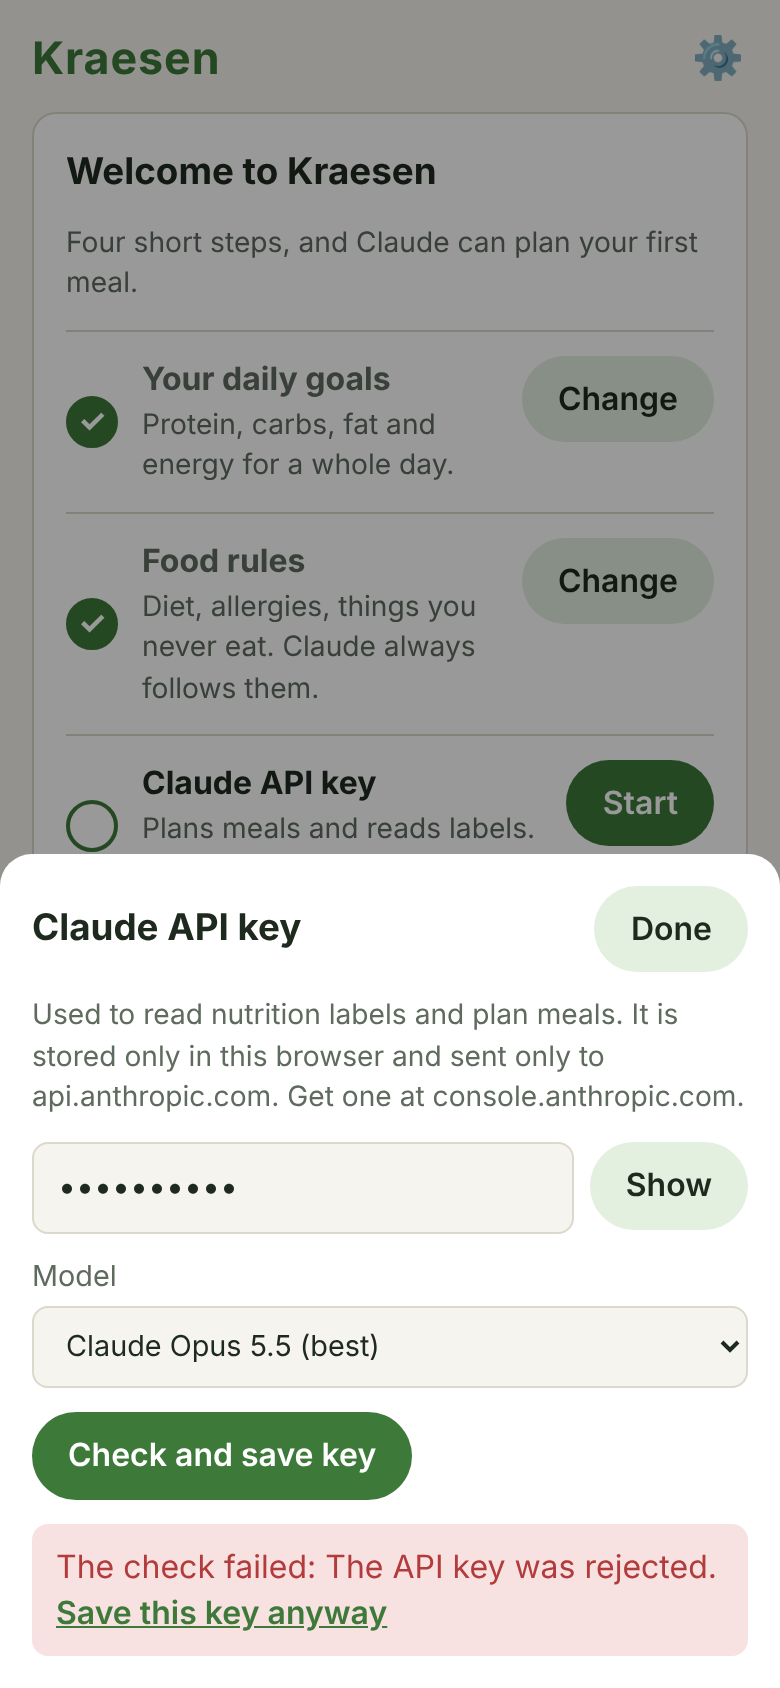
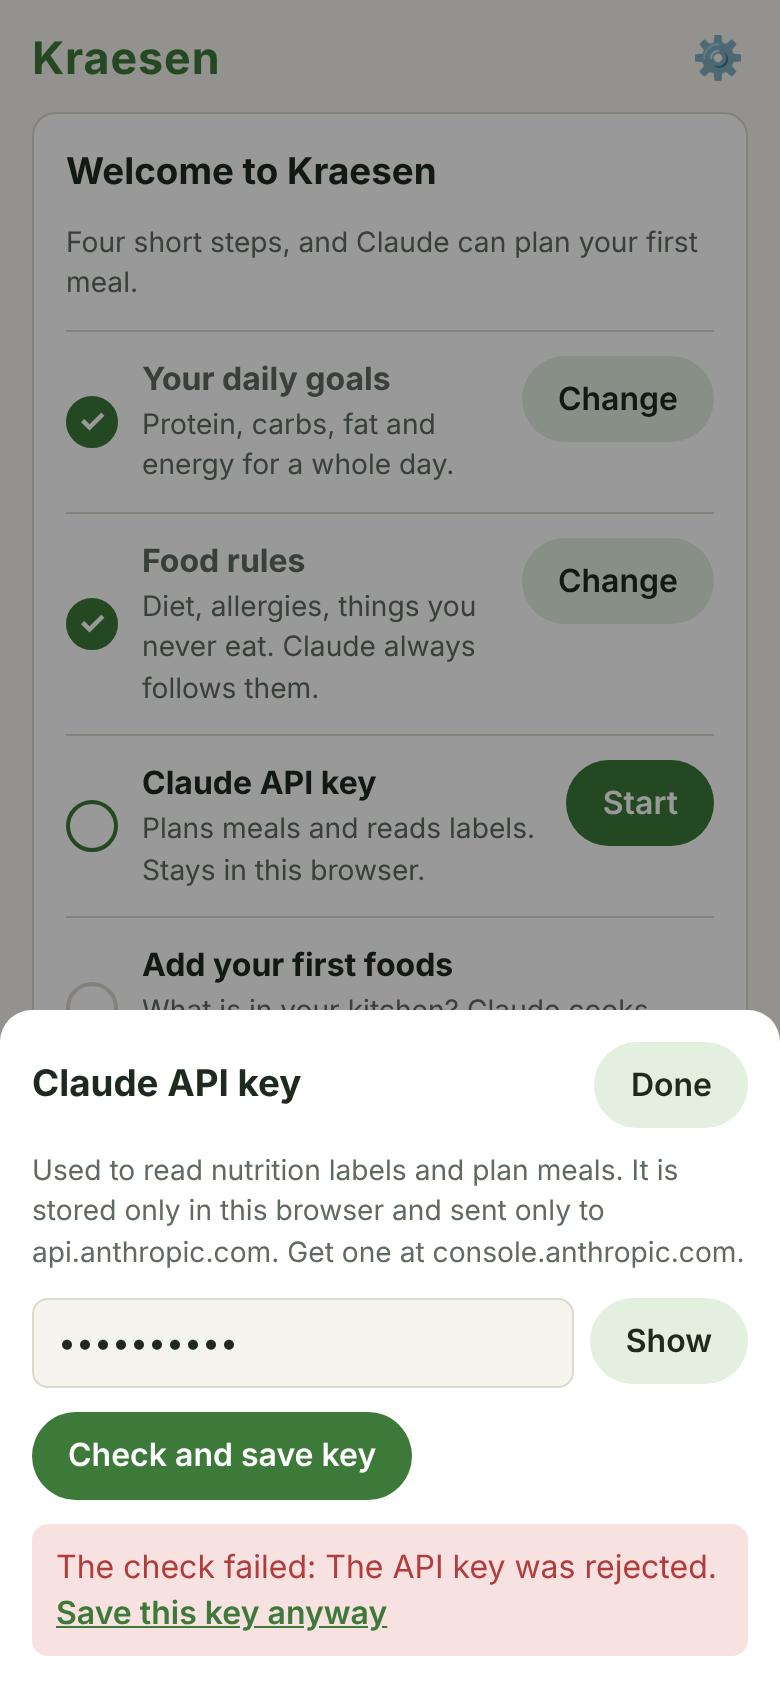
test: every Claude call uses Sonnet 5.5; keep the model id and name together
Tests check the model sent by meal planning, label reading and the key check. The 403 message takes the model name from the same constant as the id. Setup key screenshot retaken without the model picker.

Claude-Session: https://claude.ai/code/session_01NExJTuMKn94z8RMGD2mQMk

Changed region(s): [[0.0, 0.4929, 1.0, 0.8009]]

diff --git a/src/claude.test.ts b/src/claude.test.ts
@@ -1,7 +1,7 @@
 import Anthropic from '@anthropic-ai/sdk'
 import type { BetaMessage, BetaMessageParam } from '@anthropic-ai/sdk/resources/beta/messages/messages'
-import { describe, expect, it } from 'vitest'
-import { type AgentEvent, describeError, generateMeal, type MealRequest, parseLabelReply } from './claude'
+import { afterEach, describe, expect, it, vi } from 'vitest'
+import { type AgentEvent, checkKey, describeError, generateMeal, type MealRequest, parseLabelReply, readNutritionLabel } from './claude'
 import type { Ware } from './types'
 
 const ware = (id: string, stock: Ware['stock']): Ware => ({
@@ -36,14 +36,16 @@ const recipe = (solution_id: string) => ({
   steps: ['Cook.'],
 })
 
-/** A client whose replies are scripted; records every request's messages. */
+/** A client whose replies are scripted; records every request's messages and model. */
 function scripted(replies: BetaMessage[]) {
   const requests: BetaMessageParam[][] = []
+  const models: string[] = []
   const client = {
     beta: {
       messages: {
-        create: async (params: { messages: BetaMessageParam[] }) => {
+        create: async (params: { messages: BetaMessageParam[]; model: string }) => {
           requests.push(structuredClone(params.messages))
+          models.push(params.model)
           const next = replies.shift()
           if (!next) throw new Error('script ran out')
           return next
@@ -51,7 +53,7 @@ function scripted(replies: BetaMessage[]) {
       },
     },
   } as unknown as Anthropic
-  return { client, requests }
+  return { client, requests, models }
 }
 
 /** The tool_result blocks the app sent in its last request. */
@@ -204,6 +206,36 @@ describe('generateMeal', () => {
   it('stops on a refusal', async () => {
     const { client } = scripted([reply([], 'refusal')])
     await expect(run(client)).rejects.toThrow('declined')
+  })
+})
+
+describe('model', () => {
+  afterEach(() => vi.unstubAllGlobals())
+
+  it('plans meals with Claude Sonnet 5.5 on every request', async () => {
+    const { client, models } = scripted([
+      reply([{ type: 'tool_use', id: 'a', name: 'compute_portions', input: { ingredients: [{ ware_id: 'have1' }] } }]),
+      reply([{ type: 'tool_use', id: 'b', name: 'submit_recipe', input: recipe('S1') }]),
+    ])
+    await run(client)
+    expect(models).toEqual(['claude-sonnet-5-5', 'claude-sonnet-5-5'])
+  })
+
+  it('reads labels with Claude Sonnet 5.5', async () => {
+    const label = { readable: true, name: 'Skyr', brand: 'Arla', protein_g: 11, carbs_g: 4, fat_g: 0.2, kcal: 63, basis_note: '' }
+    const { client, models } = scripted([reply([{ type: 'text', text: JSON.stringify(label) }], 'end_turn')])
+    await readNutritionLabel(client, 'aGk=', 'image/jpeg')
+    expect(models).toEqual(['claude-sonnet-5-5'])
+  })
+
+  it('checks the key against Claude Sonnet 5.5', async () => {
+    const bodies: { model: string }[] = []
+    vi.stubGlobal('fetch', async (_url: string, init: RequestInit) => {
+      bodies.push(JSON.parse(String(init.body)))
+      return new Response(JSON.stringify(reply([{ type: 'text', text: 'Hi' }], 'end_turn')), { headers: { 'content-type': 'application/json' } })
+    })
+    await checkKey('sk-ant-test')
+    expect(bodies.map((b) => b.model)).toEqual(['claude-sonnet-5-5'])
   })
 })
 

diff --git a/src/claude.ts b/src/claude.ts
@@ -11,7 +11,7 @@ import { type PortionRequest, type Solution, solvePortions } from './solver'
 import { isObj, MACRO_KEYS, type MealFoods, mealFoods, type Macros, type Recipe, roundMacro, roundMacros, SHOP_LIMITS, type Shopping, toNonNegative, type Ware } from './types'
 
 /** Every Claude call uses this model. */
-const MODEL = 'claude-sonnet-5-5'
+const MODEL = { id: 'claude-sonnet-5-5', label: 'Claude Sonnet 5.5' }
 
 const FALLBACK_BETA = 'server-side-fallback-2026-07-01'
 
@@ -30,7 +30,7 @@ export interface ErrorInfo {
 export function describeError(e: unknown): ErrorInfo {
   const info = (message: string, fixKey = false) => ({ message, fixKey })
   if (e instanceof Anthropic.AuthenticationError) return info('The API key was rejected.', true)
-  if (e instanceof Anthropic.PermissionDeniedError) return info('This API key is not allowed to use Claude Sonnet 5.5.', true)
+  if (e instanceof Anthropic.PermissionDeniedError) return info(`This API key is not allowed to use ${MODEL.label}.`, true)
   if (e instanceof Anthropic.RateLimitError) return info('Rate limited by the Claude API. Wait a minute and try again.')
   if (e instanceof Anthropic.APIConnectionError) return info('Could not reach the Claude API. Are you online?')
   if (e instanceof Anthropic.APIError) return info(`Claude API error ${e.status ?? ''}: ${e.message}`)
@@ -40,7 +40,7 @@ export function describeError(e: unknown): ErrorInfo {
 /** Sends a one-token request with this key. Throws when the key is rejected or the API cannot be reached. */
 export async function checkKey(apiKey: string): Promise<void> {
   await makeClient(apiKey).beta.messages.create({
-    model: MODEL,
+    model: MODEL.id,
     max_tokens: 1,
     betas: [FALLBACK_BETA],
     fallbacks: 'default',
@@ -119,7 +119,7 @@ export async function readNutritionLabel(
 ): Promise<LabelReading> {
   const msg = await client.beta.messages.create(
     {
-      model: MODEL,
+      model: MODEL.id,
       max_tokens: 4000,
       betas: [FALLBACK_BETA],
       fallbacks: 'default',
@@ -438,7 +438,7 @@ export async function generateMeal(
     if (signal?.aborted) throw new Error('Cancelled')
     const response = await client.beta.messages.create(
       {
-        model: MODEL,
+        model: MODEL.id,
         max_tokens: 16000,
         betas: [FALLBACK_BETA],
         fallbacks: 'default',
